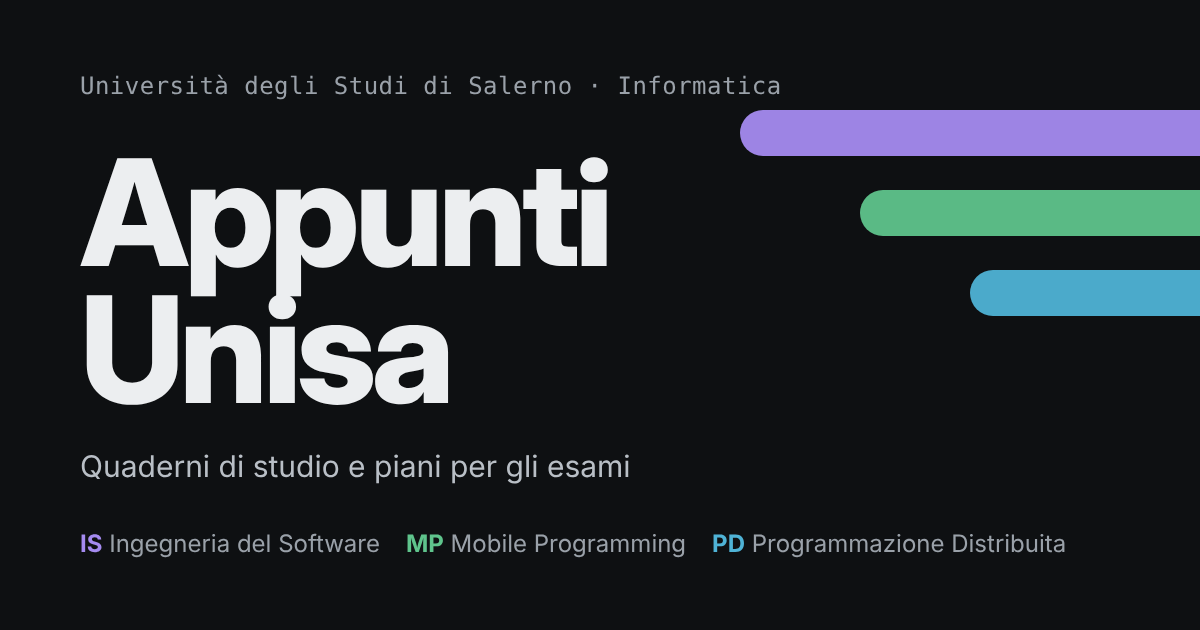
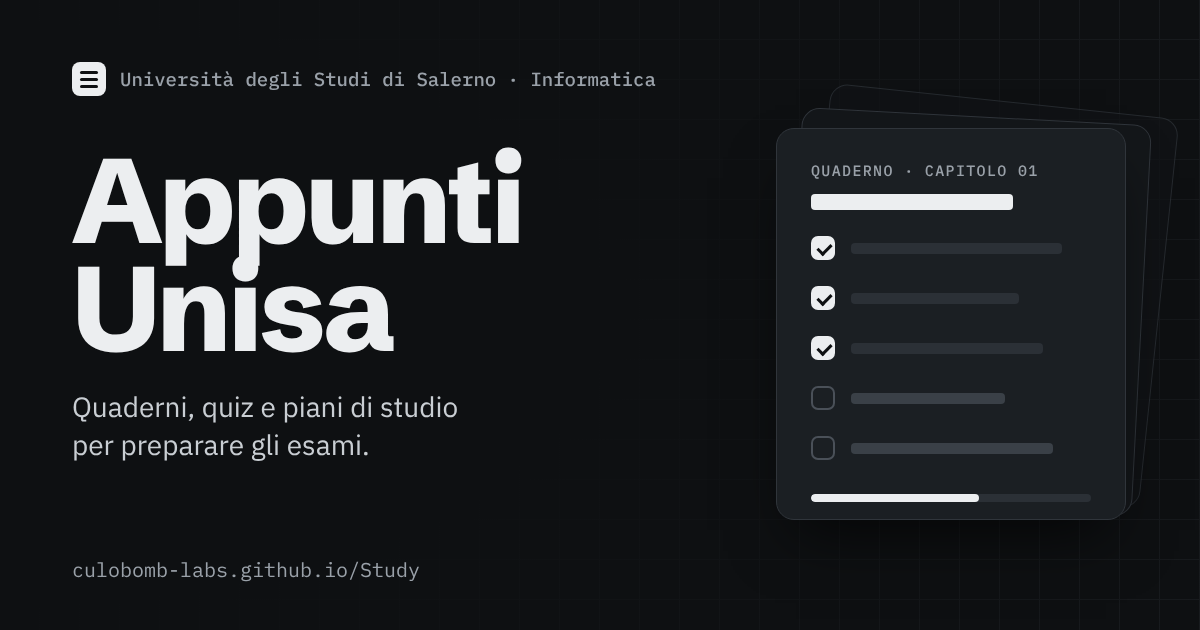
Anteprima dei link generica, senza l'elenco dei corsi
Claude-Session: https://claude.ai/code/session_011B48L3UF14qRWEgyxEQsLC

diff --git a/Unisa/index.html b/Unisa/index.html
@@ -4,7 +4,7 @@
 <meta charset="utf-8">
 <meta name="viewport" content="width=device-width,initial-scale=1,viewport-fit=cover">
 <title>Appunti Unisa</title>
-<meta name="description" content="Quaderni di studio e piani per i corsi di Informatica all'Università di Salerno.">
+<meta name="description" content="Quaderni, quiz e piani di studio per i corsi di Informatica all'Università di Salerno.">
 <meta name="theme-color" content="#111418">
 <link rel="icon" href="icon.svg" type="image/svg+xml">
 <link rel="icon" href="favicon-32.png" sizes="32x32" type="image/png">
@@ -13,9 +13,9 @@
 <meta property="og:type" content="website">
 <meta property="og:site_name" content="Appunti Unisa">
 <meta property="og:title" content="Appunti Unisa">
-<meta property="og:description" content="Quaderni di studio e piani per i corsi di Informatica all'Università di Salerno.">
+<meta property="og:description" content="Quaderni, quiz e piani di studio per i corsi di Informatica all'Università di Salerno.">
 <meta property="og:url" content="https://culobomb-labs.github.io/Study/">
-<meta property="og:image" content="https://culobomb-labs.github.io/Study/og.png">
+<meta property="og:image" content="https://culobomb-labs.github.io/Study/og.png?v=2">
 <meta property="og:image:width" content="1200">
 <meta property="og:image:height" content="630">
 <meta property="og:locale" content="it_IT">

diff --git a/.github/scripts/build_site.py b/.github/scripts/build_site.py
@@ -122,7 +122,7 @@ def head_meta(root, title, desc, rel):
             f'<meta property="og:title" content="{t}">\n'
             f'<meta property="og:description" content="{d}">\n'
             f'<meta property="og:url" content="{page_url}">\n'
-            f'<meta property="og:image" content="{SITE_URL}og.png">\n'
+            f'<meta property="og:image" content="{SITE_URL}og.png?v=2">\n'
             f'<meta property="og:locale" content="it_IT">\n'
             f'<meta name="twitter:card" content="summary_large_image">\n')
 
